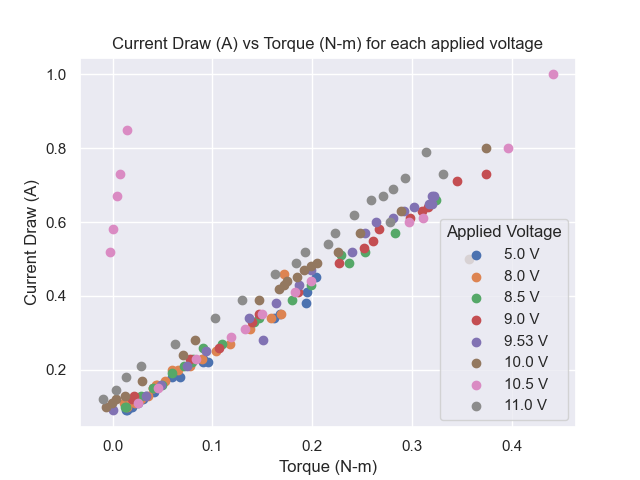
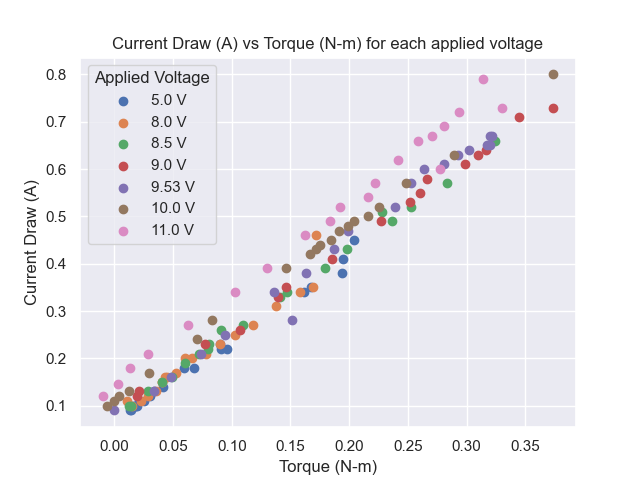
working on outlier rejection

diff --git a/GK_Data_Analysis.py b/GK_Data_Analysis.py
@@ -5,7 +5,7 @@ import seaborn as sns
 import os
 
 # Load the Excel file into a df
-file_path = "DC-Motor-Data-Analysis\GK_Data_M1.xlsx"
+file_path = "GK_Data_M1.xlsx"
 df = pd.read_excel(file_path)
 
 # Display the first few rows 
@@ -49,5 +49,40 @@ average_resistance = df['Resistance (Ohms)'].mean()
 print("\nMissing values per column after filling:")
 print(df.isnull().sum())
 
+#
+#drop all data associated with the 10.5 volt data point
+#df = df[df['Applied Voltage (v)'] != 10.5]
+
 #save to new excel file
 df.to_excel("GK_Data_M1_filled.xlsx", index=False)
+
+"""
+# Calculate Z-scores
+df['Z_Score_A'] = (df['A '] - df['A'].mean()) / df['A'].std()
+# Identify outliers
+outliers = df[np.abs(df['Z_Score_A']) > 3]
+print(outliers)
+# Drop outliers
+df = df[np.abs(df['Z_Score_A']) < 3]
+"""
+
+#find outliers for all relevant columns and returnt the coutliers, the z score and the column name
+def find_outliers(df, column):
+    Z_Score = (df[column] - df[column].mean()) / df[column].std()
+    outliers = df[np.abs(Z_Score) > 2.5]
+    return outliers, Z_Score
+#execute the function 
+outliers, Z_Score = find_outliers(df, 'Scale Reading (g)')
+print("Outliers in the scale reading data: \n", outliers)
+outliers, Z_Score = find_outliers(df, 'Current Draw (A)')
+print("Outliers in the Current Draw data: \n", outliers)
+outliers, Z_Score = find_outliers(df, 'Tach Reading (RPM)')
+print("Outliers in the tachometer data: \n", outliers)
+outliers, Z_Score = find_outliers(df, 'Torque (N-m)')
+print("Outliers in the torque data: \n", outliers)
+outliers, Z_Score = find_outliers(df, 'Efficiency')
+print("Outliers in the efficiency data: \n", outliers)
+
+
+print("Data Processing Complete")
+
